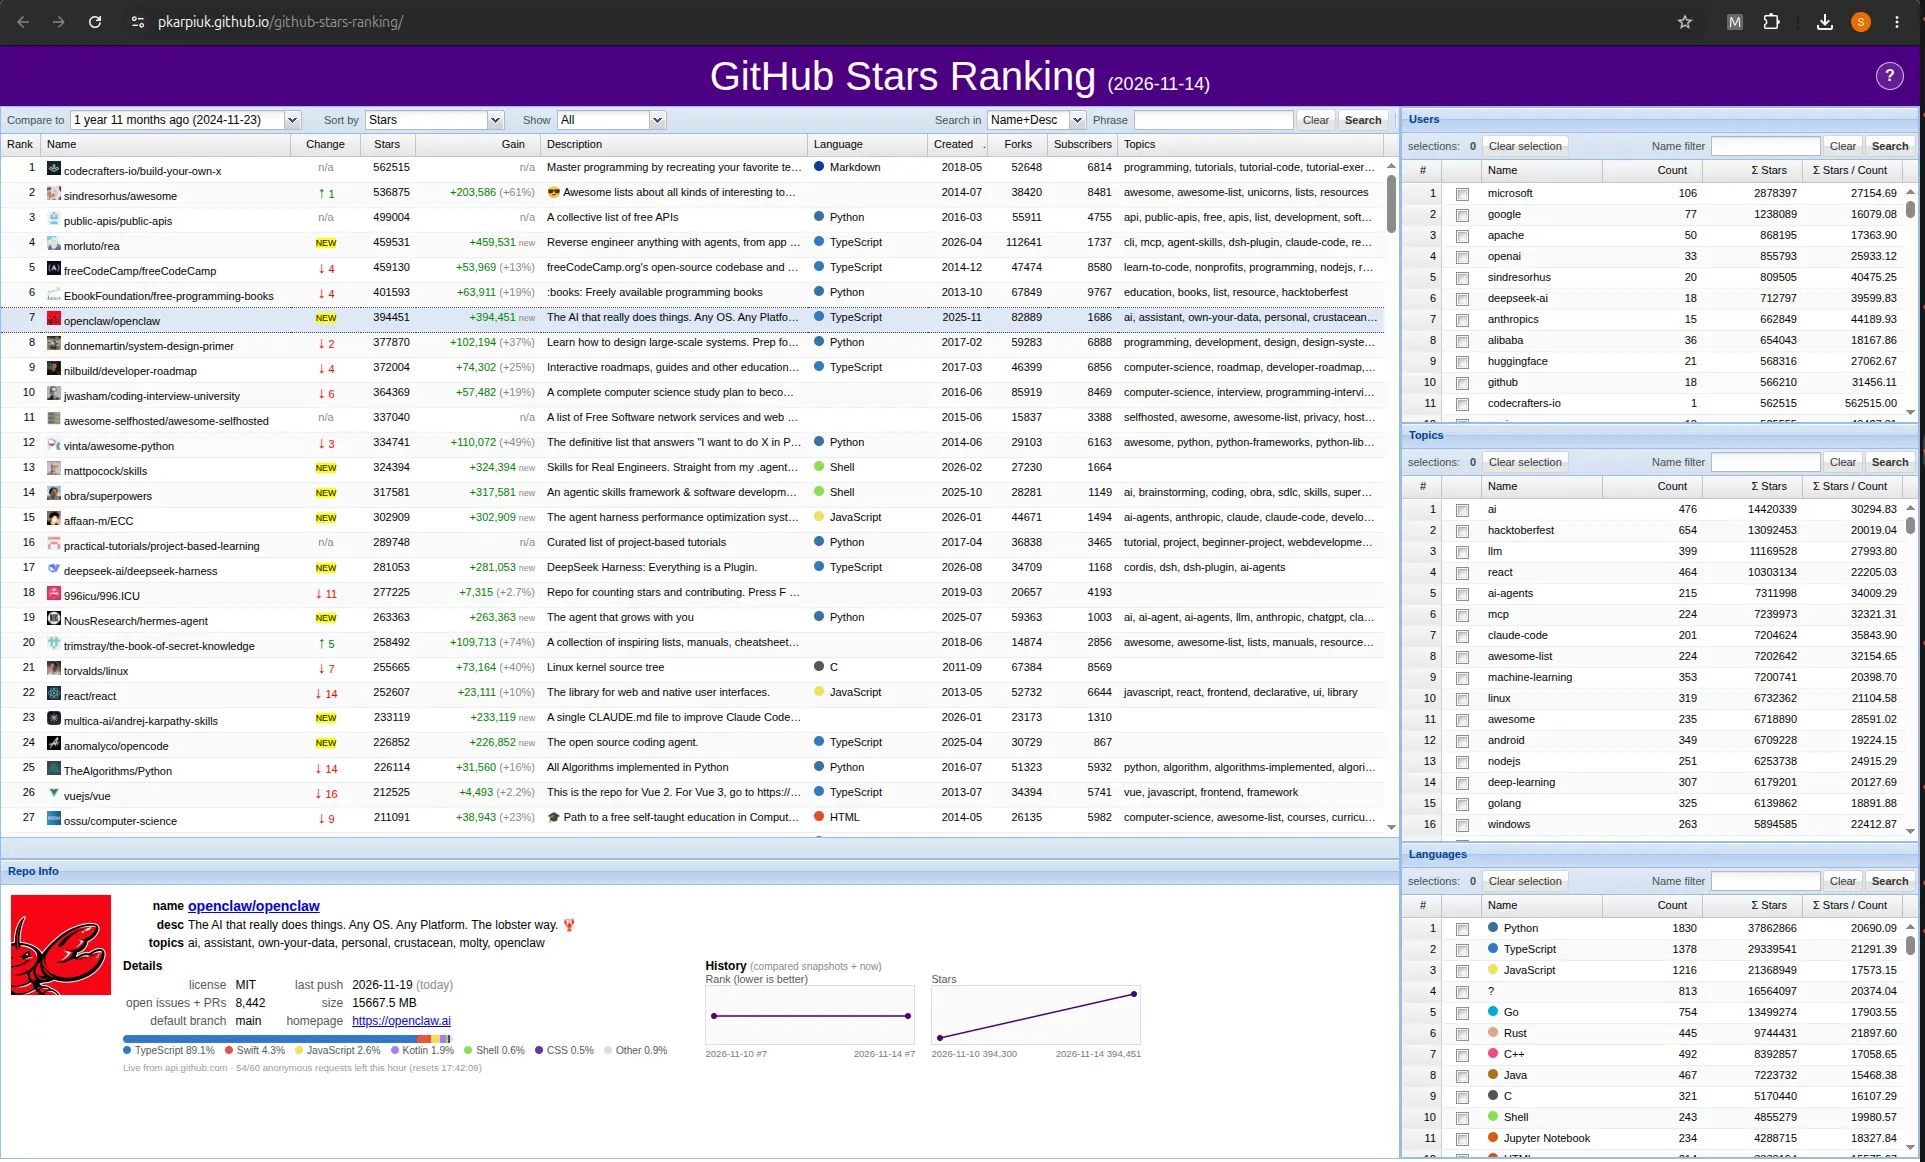
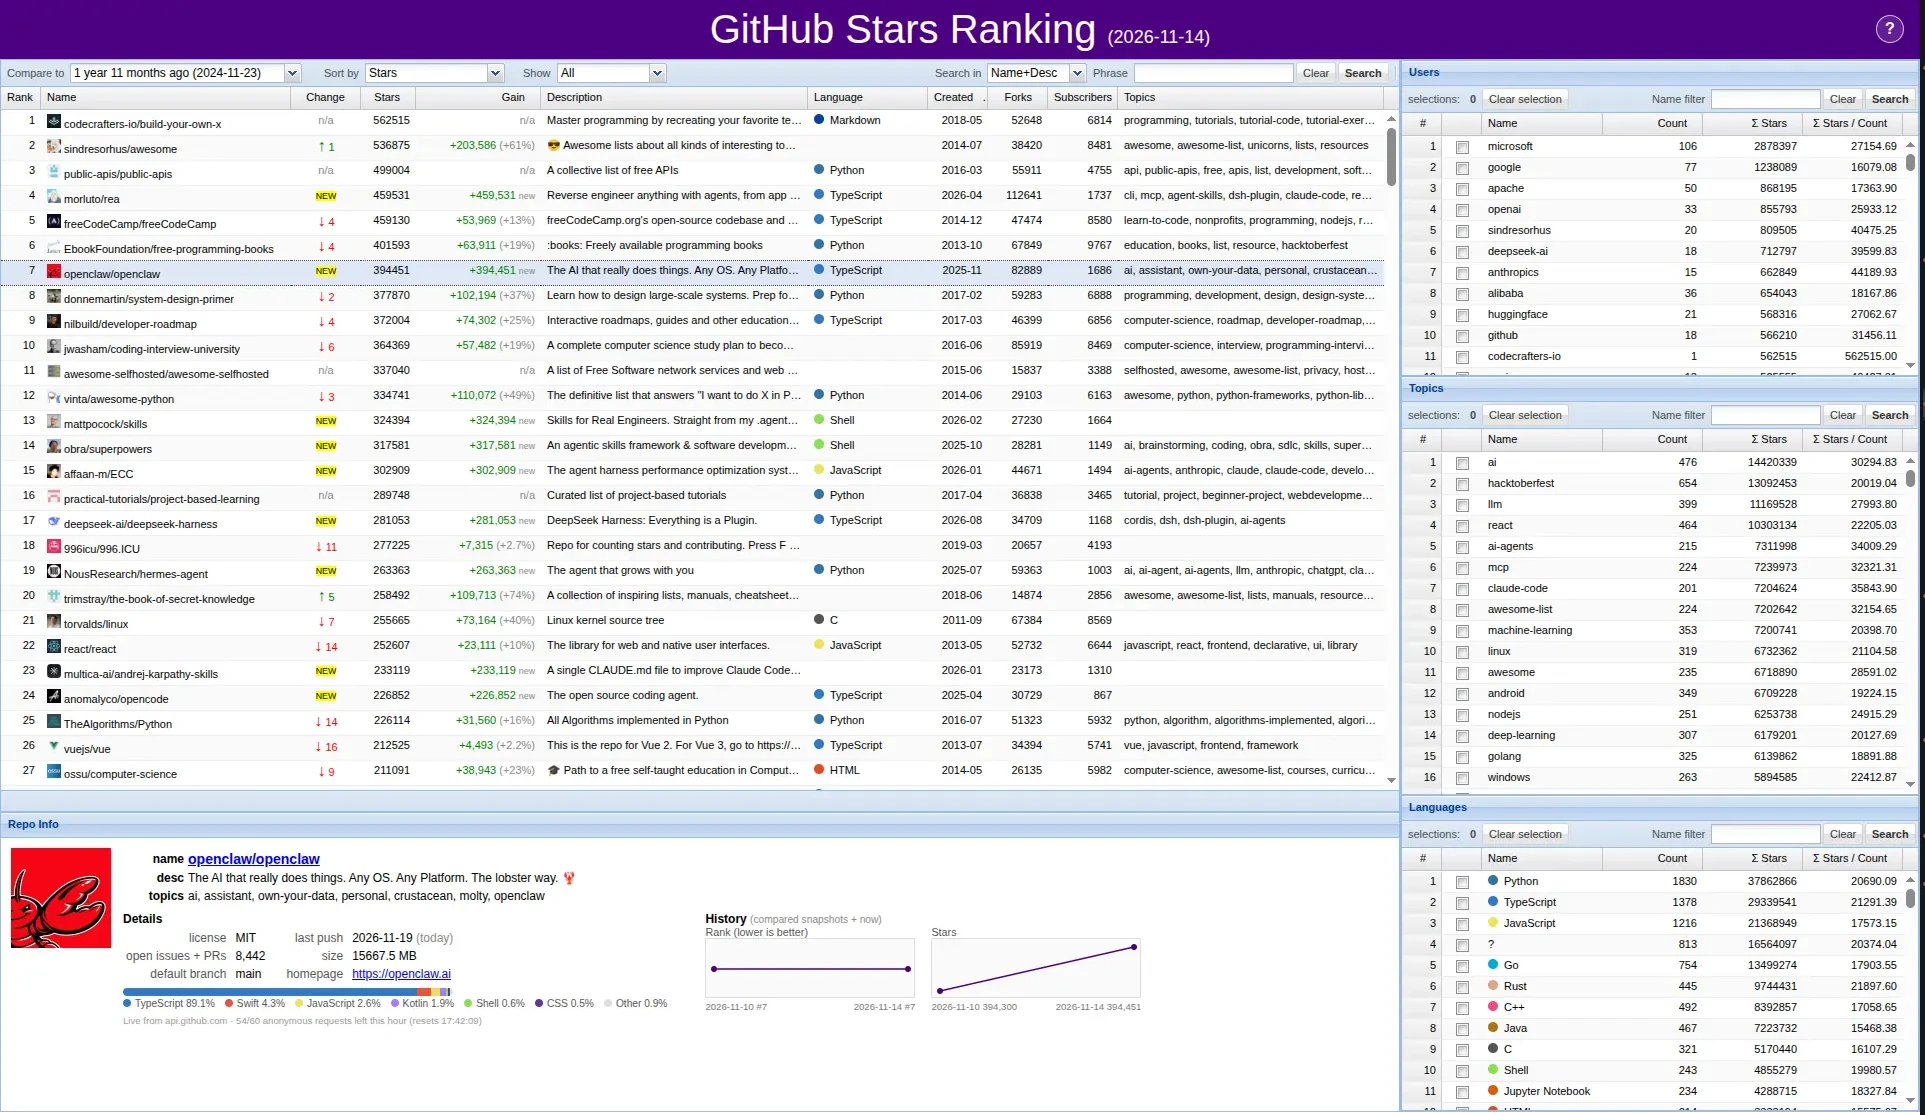
Display thumbnails at double size

diff --git a/main.css b/main.css
@@ -41,7 +41,7 @@ a { color: var(--accent); }
 
 .showcase h2 { margin: 2rem 0 1rem; }
 
-.showcase { display: grid; grid-template-columns: repeat(auto-fill, minmax(20rem, 1fr)); gap: 1.5rem; }
+.showcase { display: grid; grid-template-columns: repeat(auto-fill, minmax(22rem, 1fr)); gap: 1.5rem; }
 .showcase h2 { grid-column: 1 / -1; margin-bottom: 0; }
 
 .project {
@@ -63,7 +63,7 @@ a { color: var(--accent); }
   font-size: .85rem;
 }
 
-.screenshots { display: grid; grid-template-columns: repeat(auto-fill, minmax(9rem, 1fr)); gap: .5rem; margin: .75rem 0; }
+.screenshots { display: grid; grid-template-columns: repeat(auto-fill, minmax(18rem, 1fr)); gap: .5rem; margin: .75rem 0; }
 .thumb img { display: block; width: 100%; aspect-ratio: 8 / 5; object-fit: cover; border: 1px solid var(--border); border-radius: .4rem; }
 .thumb:hover img, .thumb:focus img { border-color: var(--accent); }
 
